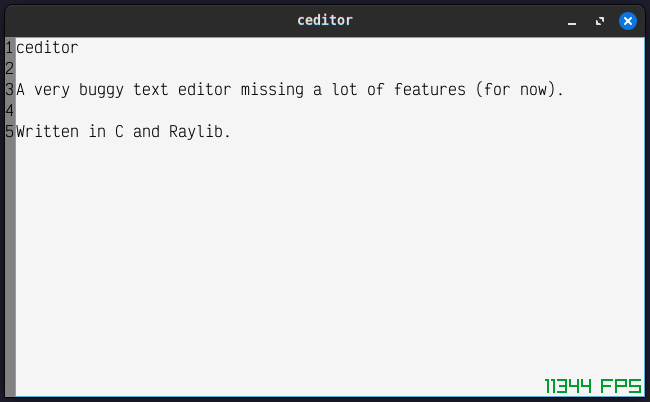
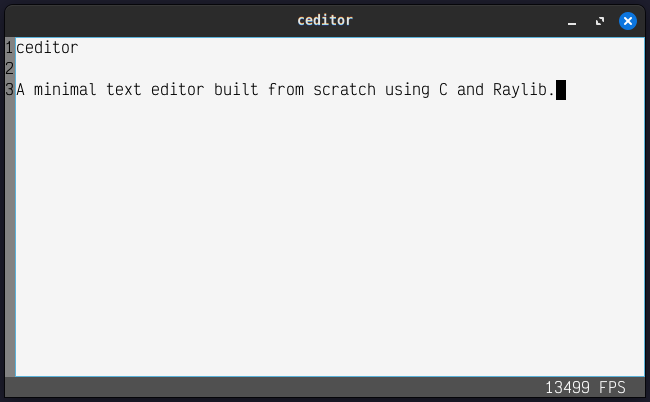
Updated README.md

diff --git a/README.md b/README.md
@@ -1,6 +1,6 @@
 # ceditor
 
-A very buggy text editor missing basic features (for now), written in C and Raylib.
+A minimal text editor built from scratch using C and Raylib.
 
 ### Features
 - Basic text input
@@ -14,9 +14,10 @@ A very buggy text editor missing basic features (for now), written in C and Rayl
 - Line number navigation
 - Save with custom file path
 - System clipboard access
-- Undo/Redo support
+- One level undo/redo support (no history stack)
 
 ### Planned features
 - Text search
+- Undo/Redo stack
 
 ![ceditor screenshot](assets/images/ceditor.png)
